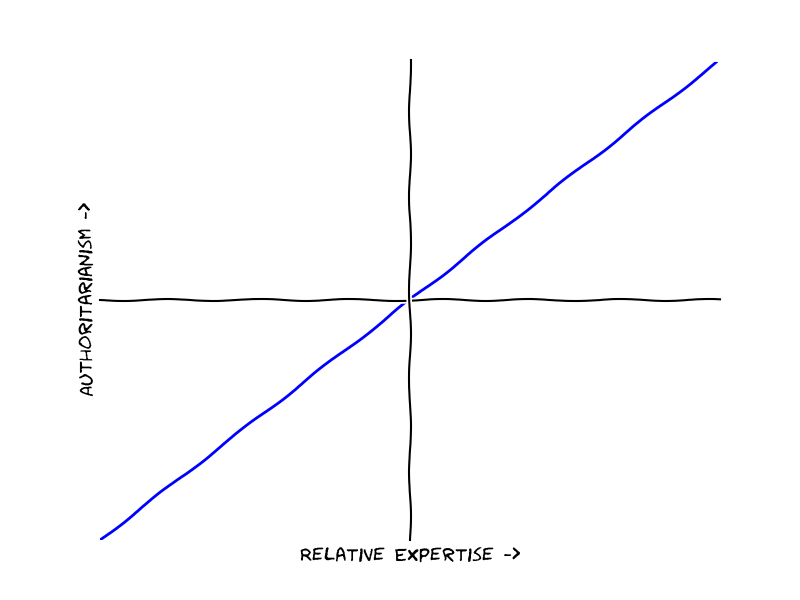
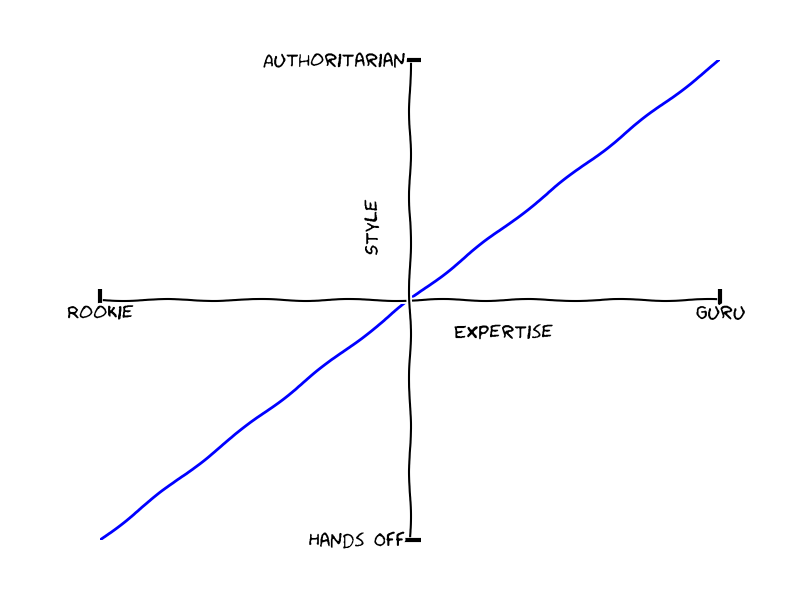
adds style labels to plot

diff --git a/style_plot.py b/style_plot.py
@@ -9,15 +9,15 @@ with plt.xkcd():
     fig = plt.figure()
     plt.plot(x, y)
 
-    plt.xticks([])
-    plt.yticks([])
-    plt.xlabel('Relative Expertise ->')
-    plt.ylabel('Authoritarianism ->')
+    plt.xticks([-10, 10], ['Rookie', 'Guru'])
+    plt.yticks([-10, 10], ['Hands Off', 'Authoritarian'])
+    plt.xlabel('Expertise')
+    plt.ylabel('Style')
 
-    ax = plt.gca()
-    ax.spines['right'].set_color('none')
-    ax.spines['top'].set_color('none')
-    ax.spines['bottom'].set_position(('data', 0))
-    ax.spines['left'].set_position(('data', 0))
+    axes = plt.gca()
+    axes.xaxis.set_label_coords(0.65, 0.45)
+    axes.yaxis.set_label_coords(0.45, 0.65)
+    for spine in axes.spines.itervalues():
+        spine.set_position(('data', 0))
 
     fig.savefig('images/style.png')

diff --git a/pyconuk2015.tex b/pyconuk2015.tex
@@ -65,13 +65,10 @@
 
     \begin{frame}{Leadership Styles}
       \begin{itemize}
-        \pause
         \item Authoritarian
-        \pause
         \item Paternalistic
-        \pause
         \item Consensual
-        \pause
+        \item Democratic
         \item Hands Off
       \end{itemize}
     \end{frame}
